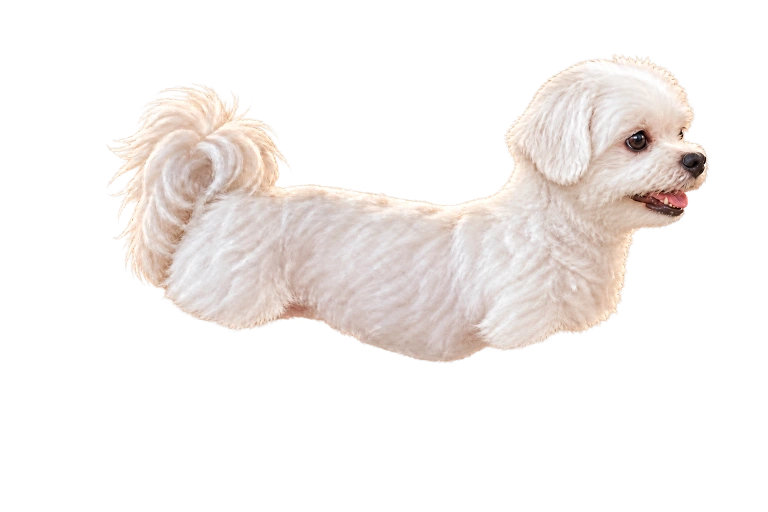
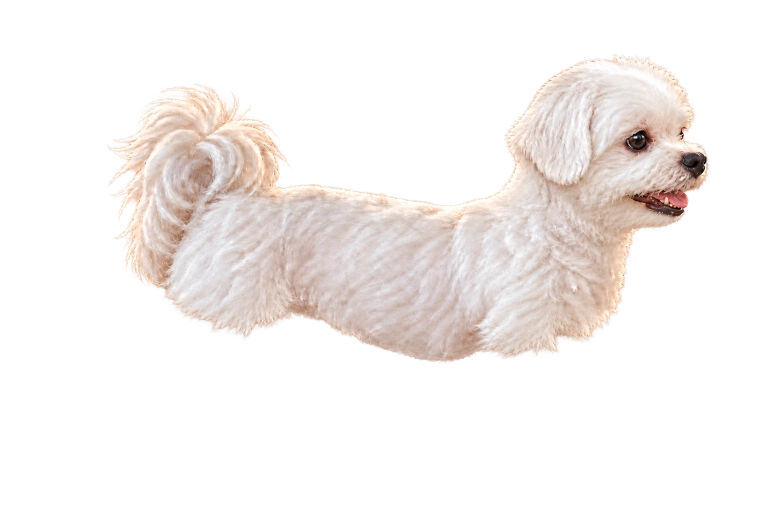
Refine Milky walk layer joins after independent art review

diff --git a/asset-sources/milky-grounded-walk/README.md b/asset-sources/milky-grounded-walk/README.md
@@ -2,12 +2,12 @@
 
 Three painted layers support a continuous four-leg walk while keeping Milky's established face, head size, body and tail. All original character rasters remain intact. The new source pixels were generated, so likeness and registration preservation does not mean pixel-identical artwork.
 
-The final candidates are `torso-prototype-02.png`, `foreleg-prototype-02.png` and `hindleg-prototype-02.png`, each at 1536×1024 with genuine alpha. `registration.json` records the logical landmarks and measured sole bounds. The fore and hind textures are shared between near and far limbs, with independently registered roots and floor contacts.
+The final candidates are `torso-prototype-03.png`, `foreleg-prototype-02.png` and `hindleg-prototype-02.png`, each at 1536×1024 with genuine alpha. `registration.json` records the logical landmarks and measured sole bounds. The fore and hind textures are shared between near and far limbs, with independently registered roots and floor contacts.
 
-Each image was created using the built-in image-generation tool, with `public/assets/cyberpunk/milky-forward-idle.webp` as its sole visual reference. Exact prompts are archived alongside the sources. No private album photograph is included. The `01` variants were rejected: the torso enlarged the subject, the front leg was too large and differently proportioned, and the hind leg had an overly long ankle. They are retained as provenance, never as runtime inputs.
+Each image was created using the built-in image-generation tool, with `public/assets/cyberpunk/milky-forward-idle.webp` as the visual reference. Torso03 additionally used torso02 as the edit target. Exact prompts are archived alongside the sources. No private album photograph is included. The `01` variants were rejected: the torso enlarged the subject, the front leg was too large and differently proportioned, and the hind leg had an overly long ankle. They are retained as provenance, never as runtime inputs.
 
-The root and art reviewer accepted the second torso's face and silhouette at the actual scene size. The three-pose diagnostic—neutral, flexion and extension—showed consistent limb identity and fur joins at approximately 132 pixels of visible dog width. Narrow joint-local texture blending avoided the rectangular seams in the rigid-crop prototype. Continuous movement and browser performance remain separate runtime validation requirements.
+The root accepted the second torso's face and silhouette, but independent review found bright horizontal hip/chest hems and a crouched posture with a 40-logical-pixel body load. Torso03 replaces those hems with irregular short fur connections while preserving the face and body silhouette. The independent same-renderer A/B gate, at bodyLoad20/stride360, approved torso03 at approximately 132 pixels of visible dog width. `rig-torso-ab.png` preserves that comparison. Small fur-boundary differences remain at large enlargement, with no conspicuous pasted patch at scene scale. Narrow joint-local texture blending avoided the rectangular seams in the rigid-crop prototype. Continuous movement and browser performance remain separate runtime validation requirements.
 
-`export.cjs` performs only a uniform 50% resolution export to 768×512 WebP at quality 94. It does not retouch, recolor, trim or move the artwork. `runtime-exports.json` records the three public assets' SHA-256 hashes and sizes; together they total 100,166 bytes. The export script uses the existing native Canvas installation for asset processing, with no application dependency added.
+`export.cjs` performs only a uniform 50% resolution export to 768×512 WebP at quality 94. It does not retouch, recolor, trim or move the artwork. `runtime-exports.json` records the three public assets' SHA-256 hashes and sizes. The export script uses the existing native Canvas installation for asset processing, with no application dependency added.
 
-`prototype-alpha-audit.json` confirms eight exterior alpha probes are zero for all three selected sources. Native alpha above 32 follows the fur silhouette. `torso-comparison.png` is a diagnostic comparison against the unchanged forward idle. The runtime geometry must smoothly enter the loaded walk posture, keep planted paws fixed in world space, preserve the near/far floor lines, and handle idle, interruption and bed/ball transitions before release.
+`prototype-alpha-audit.json` confirms eight exterior alpha probes are zero for all three second-revision sources; `torso-03-audit.json` verifies the replacement torso03 and compares its upper contour against torso02. Native alpha above 32 follows the fur silhouette. `torso-comparison.png` compares torso02 against the unchanged forward idle. The runtime geometry must smoothly enter the loaded walk posture, keep planted paws fixed in world space, preserve the near/far floor lines, and handle idle, interruption and bed/ball transitions before release.
